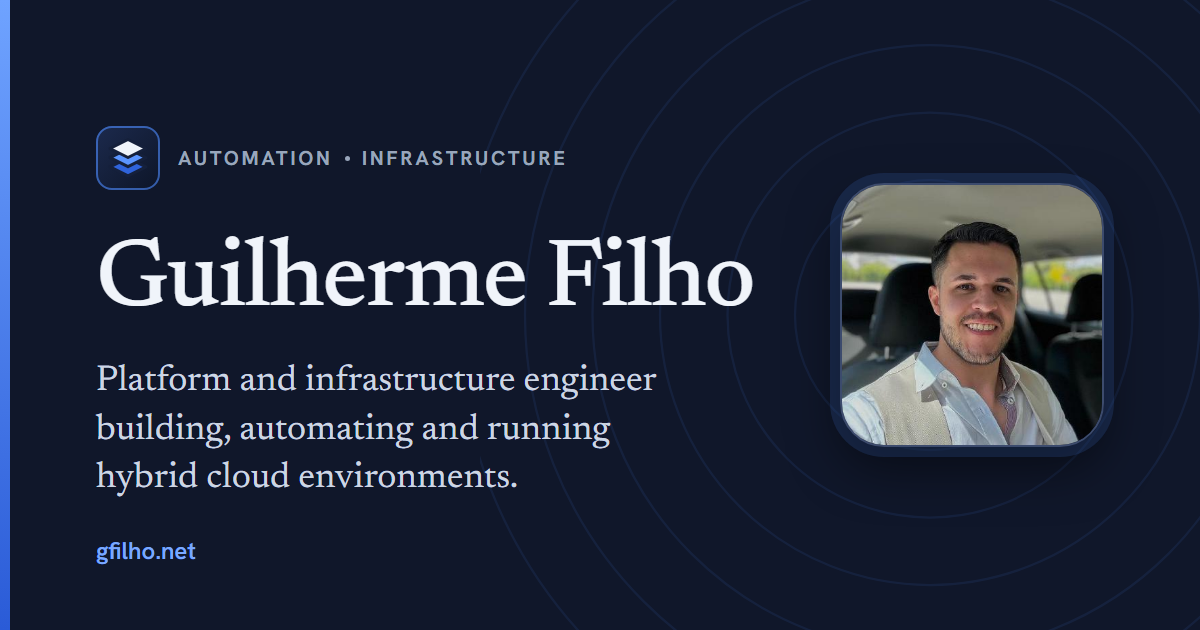
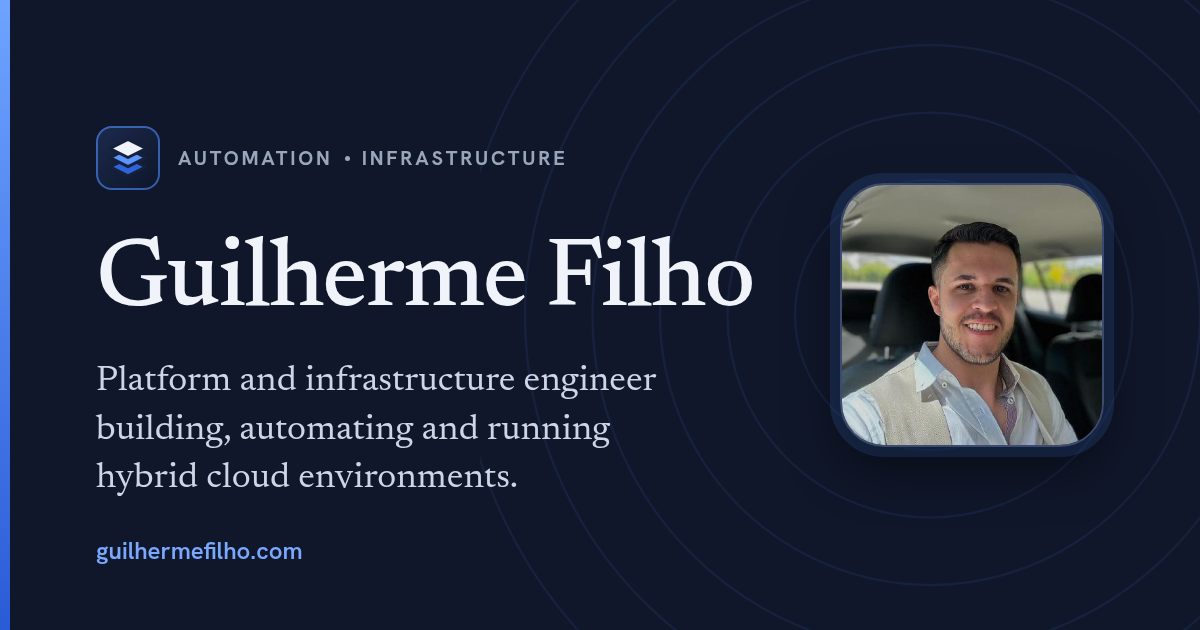
Move the site to guilhermefilho.com

diff --git a/site/cases/self-healing/index.html b/site/cases/self-healing/index.html
@@ -7,13 +7,13 @@
 <meta name="description" content="Case study: a guarded self-healing loop with Prometheus, Event-Driven Ansible and Ascender that brings a crashed service back in 31 to 39 seconds and pages on-call only when automation should stop.">
 <meta name="theme-color" content="#10172A" media="(prefers-color-scheme: dark)">
 <meta name="theme-color" content="#E8EDF4" media="(prefers-color-scheme: light)">
-<link rel="canonical" href="https://gfilho.net/cases/self-healing/">
+<link rel="canonical" href="https://guilhermefilho.com/cases/self-healing/">
 <meta property="og:type" content="article">
-<meta property="og:site_name" content="gfilho.net">
-<meta property="og:url" content="https://gfilho.net/cases/self-healing/">
+<meta property="og:site_name" content="guilhermefilho.com">
+<meta property="og:url" content="https://guilhermefilho.com/cases/self-healing/">
 <meta property="og:title" content="Self-healing servers with Event-Driven Ansible and Ascender">
 <meta property="og:description" content="Case study: a guarded self-healing loop with Prometheus, Event-Driven Ansible and Ascender that brings a crashed service back in 31 to 39 seconds and pages on-call only when automation should stop.">
-<meta property="og:image" content="https://gfilho.net/og-image.png?v=2">
+<meta property="og:image" content="https://guilhermefilho.com/og-image.png?v=3">
 <meta property="og:image:width" content="1200">
 <meta property="og:image:height" content="630">
 <meta property="og:image:alt" content="Guilherme Filho, Automation • Infrastructure">
@@ -36,13 +36,13 @@
   "description": "Case study: a guarded self-healing loop with Prometheus, Event-Driven Ansible and Ascender that brings a crashed service back in 31 to 39 seconds and pages on-call only when automation should stop.",
   "datePublished": "2026-10-20",
   "dateModified": "2026-10-20",
-  "url": "https://gfilho.net/cases/self-healing/",
-  "mainEntityOfPage": "https://gfilho.net/cases/self-healing/",
-  "image": "https://gfilho.net/og-image.png?v=2",
+  "url": "https://guilhermefilho.com/cases/self-healing/",
+  "mainEntityOfPage": "https://guilhermefilho.com/cases/self-healing/",
+  "image": "https://guilhermefilho.com/og-image.png?v=3",
   "author": {
     "@type": "Person",
     "name": "Guilherme Filho",
-    "url": "https://gfilho.net/"
+    "url": "https://guilhermefilho.com/"
   },
   "isBasedOn": "https://github.com/biazini/ansible-playbooks",
   "keywords": "event-driven ansible, ascender, prometheus, self-healing"
@@ -202,7 +202,7 @@
  <div class="wrap foot">
   <span class="foot-brand"><span class="brand-mark" aria-hidden="true"><svg class="logo"><use href="#logo"/></svg></span>Guilherme Filho</span>
   <nav class="foot-nav" aria-labelledby="foot-nav-label">
-   <p class="snav-label" id="foot-nav-label">gfilho.net</p>
+   <p class="snav-label" id="foot-nav-label">guilhermefilho.com</p>
    <a href="/">Home</a><a href="/#projects">Projects</a><a href="/#articles">Articles</a><a href="/#links">Links</a>
   </nav>
   <div class="foot-meta">

diff --git a/site/cases/ascender-k3s/index.html b/site/cases/ascender-k3s/index.html
@@ -7,13 +7,13 @@
 <meta name="description" content="Case study: a reproducible, verified procedure to install Ascender 25.6.2 on k3s and Ubuntu Server 26.04 LTS, from DNS and TLS to backup, upgrade and certificate renewal.">
 <meta name="theme-color" content="#10172A" media="(prefers-color-scheme: dark)">
 <meta name="theme-color" content="#E8EDF4" media="(prefers-color-scheme: light)">
-<link rel="canonical" href="https://gfilho.net/cases/ascender-k3s/">
+<link rel="canonical" href="https://guilhermefilho.com/cases/ascender-k3s/">
 <meta property="og:type" content="article">
-<meta property="og:site_name" content="gfilho.net">
-<meta property="og:url" content="https://gfilho.net/cases/ascender-k3s/">
+<meta property="og:site_name" content="guilhermefilho.com">
+<meta property="og:url" content="https://guilhermefilho.com/cases/ascender-k3s/">
 <meta property="og:title" content="An enterprise Ascender platform on k3s, documented end to end">
 <meta property="og:description" content="Case study: a reproducible, verified procedure to install Ascender 25.6.2 on k3s and Ubuntu Server 26.04 LTS, from DNS and TLS to backup, upgrade and certificate renewal.">
-<meta property="og:image" content="https://gfilho.net/og-image.png?v=2">
+<meta property="og:image" content="https://guilhermefilho.com/og-image.png?v=3">
 <meta property="og:image:width" content="1200">
 <meta property="og:image:height" content="630">
 <meta property="og:image:alt" content="Guilherme Filho, Automation • Infrastructure">
@@ -36,13 +36,13 @@
   "description": "Case study: a reproducible, verified procedure to install Ascender 25.6.2 on k3s and Ubuntu Server 26.04 LTS, from DNS and TLS to backup, upgrade and certificate renewal.",
   "datePublished": "2026-10-20",
   "dateModified": "2026-10-20",
-  "url": "https://gfilho.net/cases/ascender-k3s/",
-  "mainEntityOfPage": "https://gfilho.net/cases/ascender-k3s/",
-  "image": "https://gfilho.net/og-image.png?v=2",
+  "url": "https://guilhermefilho.com/cases/ascender-k3s/",
+  "mainEntityOfPage": "https://guilhermefilho.com/cases/ascender-k3s/",
+  "image": "https://guilhermefilho.com/og-image.png?v=3",
   "author": {
     "@type": "Person",
     "name": "Guilherme Filho",
-    "url": "https://gfilho.net/"
+    "url": "https://guilhermefilho.com/"
   },
   "isBasedOn": "https://github.com/biazini/ascender-k3s-installation",
   "keywords": "ascender, k3s, kubernetes, ubuntu"
@@ -185,7 +185,7 @@
  <div class="wrap foot">
   <span class="foot-brand"><span class="brand-mark" aria-hidden="true"><svg class="logo"><use href="#logo"/></svg></span>Guilherme Filho</span>
   <nav class="foot-nav" aria-labelledby="foot-nav-label">
-   <p class="snav-label" id="foot-nav-label">gfilho.net</p>
+   <p class="snav-label" id="foot-nav-label">guilhermefilho.com</p>
    <a href="/">Home</a><a href="/#projects">Projects</a><a href="/#articles">Articles</a><a href="/#links">Links</a>
   </nav>
   <div class="foot-meta">

diff --git a/site/index.html b/site/index.html
@@ -7,13 +7,13 @@
 <meta name="description" content="Guilherme Filho: automation and infrastructure. Projects on GitHub and contact on LinkedIn.">
 <meta name="theme-color" content="#10172A" media="(prefers-color-scheme: dark)">
 <meta name="theme-color" content="#E8EDF4" media="(prefers-color-scheme: light)">
-<link rel="canonical" href="https://gfilho.net/">
+<link rel="canonical" href="https://guilhermefilho.com/">
 <meta property="og:type" content="profile">
-<meta property="og:site_name" content="gfilho.net">
-<meta property="og:url" content="https://gfilho.net/">
+<meta property="og:site_name" content="guilhermefilho.com">
+<meta property="og:url" content="https://guilhermefilho.com/">
 <meta property="og:title" content="Guilherme Filho — Platform &amp; Infrastructure Engineer">
 <meta property="og:description" content="Guilherme Filho: automation and infrastructure. Projects on GitHub and contact on LinkedIn.">
-<meta property="og:image" content="https://gfilho.net/og-image.png?v=2">
+<meta property="og:image" content="https://guilhermefilho.com/og-image.png?v=3">
 <meta property="og:image:width" content="1200">
 <meta property="og:image:height" content="630">
 <meta property="og:image:alt" content="Guilherme Filho, Automation • Infrastructure">
@@ -36,8 +36,8 @@
   "description": "Platform and infrastructure engineer building, automating and running hybrid cloud environments.",
   "worksFor": { "@type": "Organization", "name": "Inetum" },
   "address": { "@type": "PostalAddress", "addressLocality": "Coimbra", "addressCountry": "PT" },
-  "url": "https://gfilho.net/",
-  "image": "https://gfilho.net/assets/img/avatar-384.jpg",
+  "url": "https://guilhermefilho.com/",
+  "image": "https://guilhermefilho.com/assets/img/avatar-384.jpg",
   "sameAs": ["https://github.com/biazini", "https://www.linkedin.com/in/g-biazini-filho"]
 }
 </script>

diff --git a/site/assets/css/main.css b/site/assets/css/main.css
@@ -1,4 +1,4 @@
-/* gfilho.net — single stylesheet, no build step */
+/* guilhermefilho.com — single stylesheet, no build step */
 
 /* ---------- fonts (self-hosted, SIL OFL 1.1, see ../fonts/OFL-*.txt) ---------- */
 @font-face{font-family:"Newsreader";src:url(../fonts/newsreader-latin-wght.woff2) format("woff2");font-weight:200 800;font-style:normal;font-display:swap;

diff --git a/site/assets/js/main.js b/site/assets/js/main.js
@@ -1,4 +1,4 @@
-// gfilho.net: footer year, section nav highlight and the "Latest project" pulse.
+// guilhermefilho.com: footer year, section nav highlight and the "Latest project" pulse.
 // The page works without this script; it only adds orientation cues.
 (function () {
   'use strict';

diff --git a/site/404.html b/site/404.html
@@ -25,7 +25,7 @@
 <main class="wrap notfound">
  <h1>Page not found</h1>
  <p>The page you are looking for does not exist or has moved.</p>
- <a class="btn btn-pri" href="/">Back to gfilho.net</a>
+ <a class="btn btn-pri" href="/">Back to guilhermefilho.com</a>
 </main>
 </body>
 </html>

diff --git a/tools/og-image.html b/tools/og-image.html
@@ -33,6 +33,6 @@ p{margin:28px 0 0;max-width:620px;font-family:"Newsreader",serif;font-size:36px;
  </div>
  <img class="photo" src="../site/assets/img/avatar-384.jpg" alt="">
 </div>
-<div class="url">gfilho.net</div>
+<div class="url">guilhermefilho.com</div>
 </body>
 </html>

diff --git a/.github/SECURITY.md b/.github/SECURITY.md
@@ -2,7 +2,7 @@
 
 ## Scope
 
-This repository holds the source of [gfilho.net](https://gfilho.net/): a static website, its nginx configuration and the scripts used to publish it. Security reports are welcome for anything here that could weaken the site or the server that hosts it, for example:
+This repository holds the source of [guilhermefilho.com](https://guilhermefilho.com/): a static website, its nginx configuration and the scripts used to publish it. Security reports are welcome for anything here that could weaken the site or the server that hosts it, for example:
 
 - a configuration that exposes a service, file or path that should not be public;
 - a missing or weaker-than-documented security header (CSP, framing, content-type, referrer or permissions policy);
@@ -14,7 +14,7 @@ This repository holds the source of [gfilho.net](https://gfilho.net/): a static 
 
 | Release | Supported |
 |---|---|
-| Current `main` (what runs on gfilho.net) | ✅ |
+| Current `main` (what runs on guilhermefilho.com) | ✅ |
 
 ## Reporting a vulnerability
 

diff --git a/.github/CONTRIBUTING.md b/.github/CONTRIBUTING.md
@@ -8,7 +8,7 @@ This repository is a **personal, read-only publication**: issues and pull reques
 
 - **Reuse the code.** HTML structure, CSS, JavaScript, nginx configuration and scripts are available under the [MIT License](../LICENSE). The personal content (text, photo and logo) is not; see [Licenses](../README.md#11-licenses).
 - **Report a security problem** privately, as described in the [security policy](SECURITY.md).
-- **Get in touch** about anything else through the contact details on [gfilho.net](https://gfilho.net/).
+- **Get in touch** about anything else through the contact details on [guilhermefilho.com](https://guilhermefilho.com/).
 
 ## Conduct
 
